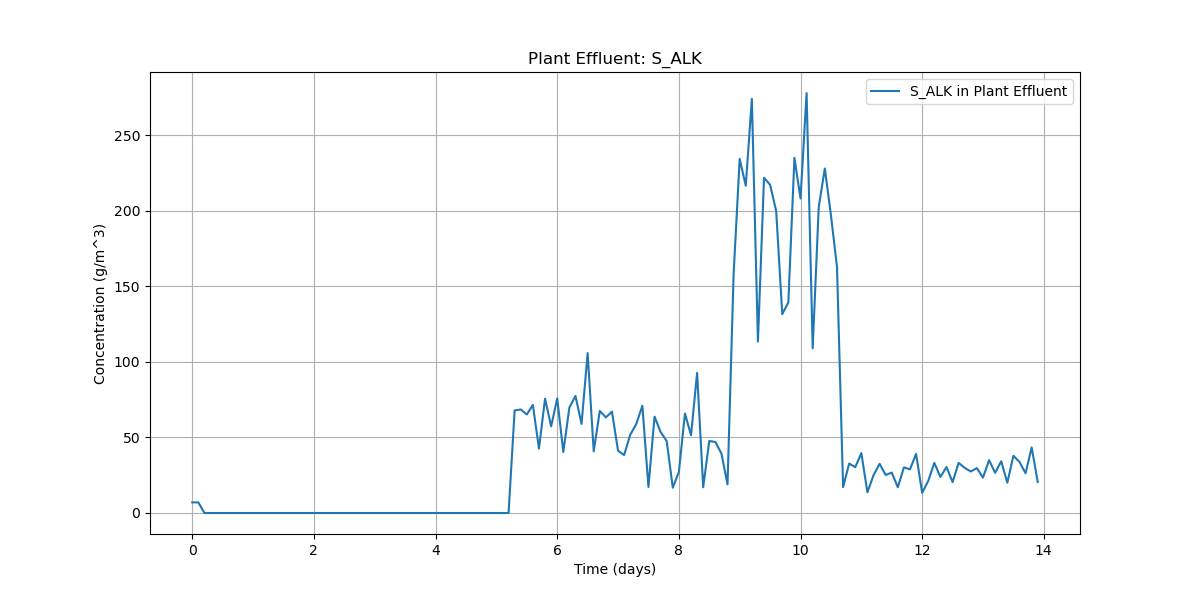
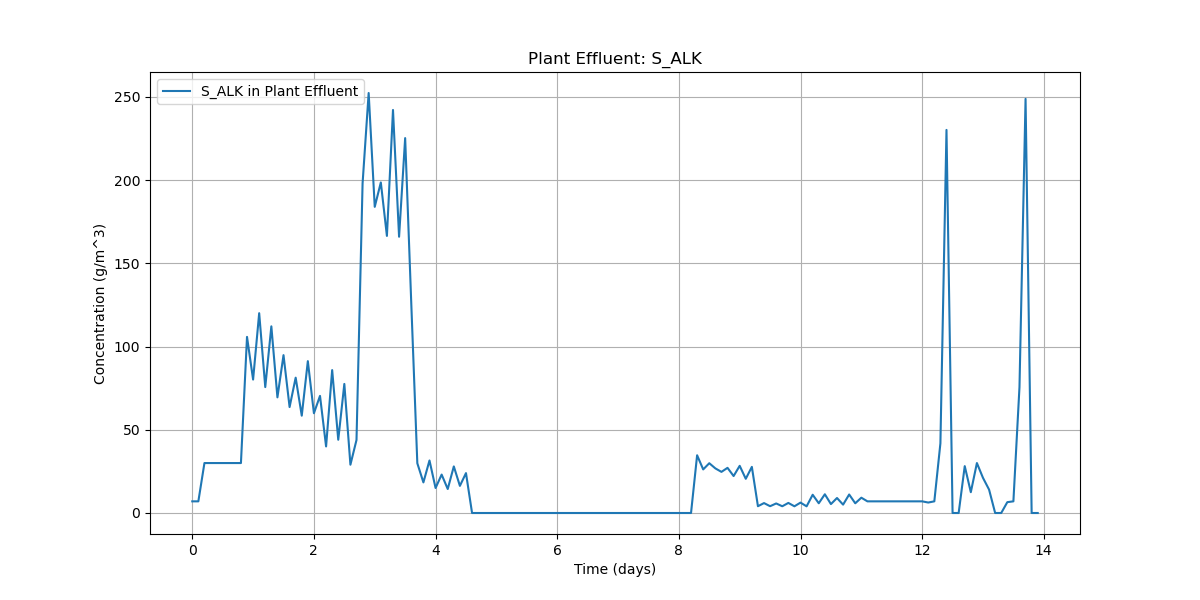
BSM1: solubles solution in clarifier

diff --git a/bsm1_simulation.py b/bsm1_simulation.py
@@ -2,11 +2,12 @@
 
 import numpy as np
 from ASM1_Processes import calculate_process_rates
-from clarifier_model import takacs_clarifier_model  # clarifier ODE (10 layers)
+from clarifier_model import takacs_clarifier_model, takacs_clarifier_soluble_odes  
 
 # indices: [2..6] are particulate COD; 11 is X_ND (particulate N)
 particulate_cod_idx  = [2, 3, 4, 5, 6] # X_I, X_S, X_H, X_A, X_P
 all_particulate_idx  = [2, 3, 4, 5, 6, 11] # add X_ND
+soluble_idx = [0, 1, 7, 8, 9, 10, 12]  # S_I, S_S, S_O, S_NO, S_NH, S_ND, S_ALK
 
 def map_particulates_by_tss(x_src_13, X_tss_target, MLSS_in_clarifier):
     """
@@ -22,13 +23,19 @@ def map_particulates_by_tss(x_src_13, X_tss_target, MLSS_in_clarifier):
 def bsm1_plant_model(y, t, influent_data, stoich_params, Kin_params, clarifier_params, settling_params):
     """
     BSM1 plant dynamics (5 reactors + 10-layer clarifier).
-    y has 75 states: 5*13 (reactors) + 10 (clarifier layers, MLSS).
+    y has 145 states: 5*13 (reactors) + 10 (clarifier MLSS) + 10*7 (clarifier solubles).
     """
 
     # --- 1) Unpack state vector ---
     y_reactors   = y[0:65]
     X_reactors   = y_reactors.reshape(5, 13)     # 5 tanks x 13 ASM1 states
     y_clarifier  = y[65:75]                      # 10-layer MLSS profile (bottom->top or your chosen convention)
+
+    # 10 layers × 7 solubles, flat after the 10 MLSS states
+    N_layers     = clarifier_params['N_layers']  # 10
+    n_sol        = len(soluble_idx)              # 7
+    y_solubles   = y[75:75 + N_layers * n_sol]   # flat soluble layers
+    Z_layers     = y_solubles.reshape(N_layers, n_sol)  # (10,7), top->bottom
 
     # --- 2) Stoichiometry (unchanged) ---
     Y_A = stoich_params['Y_A']
@@ -79,8 +86,17 @@ def bsm1_plant_model(y, t, influent_data, stoich_params, Kin_params, clarifier_p
         settling_params
     )
 
+    # --- 5b) Run soluble-layer advection ODEs ---
+    Z_in_feed = X_reactors[4, soluble_idx]  # Tank 5 solubles at the settler influent
+    dZdt_flat, Zu_vec, Ze_vec = takacs_clarifier_soluble_odes(
+        Z_layers, Z_in_feed, Q_to_clarifier, clarifier_params
+    )
+
     # --- 6) Build RAS composition by MLSS ratio (particulates scaled, solubles copied) ---
     RAS_concs_full = map_particulates_by_tss(X_reactors[4, :], X_u_total, MLSS_in_clarifier)
+
+    # underflow solubles = bottom-layer solubles (Zu)
+    RAS_concs_full[soluble_idx] = Zu_vec
 
     # --- 7) Reactor mass balances ---
     dydt_reactors = np.zeros_like(X_reactors)
@@ -114,6 +130,6 @@ def bsm1_plant_model(y, t, influent_data, stoich_params, Kin_params, clarifier_p
     # print("dydt_reactors.flatten() shape:", dydt_reactors.flatten().shape)
     # print("clar_dxdt shape:", clar_dxdt.shape)
     # --- 8) Pack derivatives ---
-    final_derivatives = np.concatenate([dydt_reactors.flatten(), clar_dxdt])
+    final_derivatives = np.concatenate([dydt_reactors.flatten(), clar_dxdt, dZdt_flat])
     # print("final_derivatives shape:", final_derivatives.shape)
     return final_derivatives

diff --git a/run_simulation.py b/run_simulation.py
@@ -8,7 +8,7 @@ import matplotlib.pyplot as plt
 import os
 os.makedirs('results', exist_ok=True)
 
-from bsm1_simulation import bsm1_plant_model, map_particulates_by_tss, particulate_cod_idx
+from bsm1_simulation import bsm1_plant_model, map_particulates_by_tss, particulate_cod_idx, soluble_idx
 from ASM1_Processes import calculate_process_rates
 
 def get_bsm1_params():
@@ -139,6 +139,11 @@ def stream_compositions_from_state(y):
     X5          = X_reactors[4, :]
     y_clarifier = y[65:75]
 
+    # soluble layers (10 x 7) follow immediately after MLSS
+    N_layers = 10
+    n_sol    = len(soluble_idx)
+    Z_layers = y[75:75 + N_layers * n_sol].reshape(N_layers, n_sol)
+
     # BSM1 feed TSS used for scaling
     X_tss_feed = tss_from_cod(X5)
 
@@ -146,10 +151,17 @@ def stream_compositions_from_state(y):
     Xe = float(y_clarifier[0])    # top layer = effluent TSS
     Xu = float(y_clarifier[-1])   # bottom layer = underflow TSS
 
+    # effluent & underflow solubles from layers
+    Ze_vec = Z_layers[0, :]       # top layer (effluent)
+    Zu_vec = Z_layers[-1, :]      # bottom layer (underflow)
+
     eff_13 = map_particulates_by_tss(X5, Xe, X_tss_feed)  # solubles copied
     ras_13 = map_particulates_by_tss(X5, Xu, X_tss_feed)  # solubles copied
-    return eff_13, ras_13, Xe, Xu
 
+    # overwrite solubles with the layer values
+    eff_13[soluble_idx] = Ze_vec
+    ras_13[soluble_idx] = Zu_vec
+    return eff_13, ras_13, Xe, Xu
 
 # --- Example of how to use it ---
 if __name__ == '__main__':
@@ -177,9 +189,18 @@ if __name__ == '__main__':
     # Initial conditions for the 10 clarifier layers (a reasonable gradient)
     initial_state_clarifier = np.linspace(start=50, stop=8000, num=10) # From clear top to thick bottom
 
+    # initial conditions for the 10×7 soluble layers.
+    # A simple, BSM1-compliant choice is to set all layers equal to Tank 5 solubles.
+    init_Z5 = initial_state_reactors[4, soluble_idx]          # Tank 5 solubles
+    initial_state_clarifier_solubles = np.tile(init_Z5, (10, 1))  # (10,7), top->bottom
+
     # Combine into a single flat vector for the ODE solver
-    y0 = np.concatenate([initial_state_reactors.flatten(), initial_state_clarifier])
-    print("Step 2: Initial conditions defined for 75 states.")
+    y0 = np.concatenate([
+        initial_state_reactors.flatten(),
+        initial_state_clarifier,
+        initial_state_clarifier_solubles.flatten()
+    ])
+    print("Step 2: Initial conditions defined for 145 states.")
 
     # --- 3. Define Simulation Time ---
     # Simulate for 14 days, with output every 0.1 days.

diff --git a/clarifier_model.py b/clarifier_model.py
@@ -150,3 +150,62 @@ def takacs_clarifier_model(X_layers, X_in_total, Q_in, clarifier_params, settlin
     X_underflow_total = X[-1]   # bottom layer
     X_effluent_total  = X[0]    # top layer
     return dxdt, X_underflow_total, X_effluent_total
+
+def takacs_clarifier_soluble_odes(Z_layers, Z_in, Q_in, clarifier_params):
+    """
+    Soluble advection in the 10-layer clarifier per BSM1 (no reactions).
+    Layer ordering follows your convention: index 0 = TOP, index 9 = BOTTOM.
+
+    Args:
+        Z_layers : (N_layers, n_sol) or flat (N_layers*n_sol,)
+                   Soluble concentrations per layer [g/m^3].
+        Z_in     : (n_sol,) solubles in the clarifier feed (from Tank 5) [g/m^3].
+        Q_in     : Clarifier feed flow Q_f [m^3/d] (= Q_e + Q_u).
+        clarifier_params : dict with keys 'A','N_layers','h','Q_RAS','Q_w','feed_layer'.
+
+    Returns:
+        dZdt_flat : (N_layers*n_sol,) time derivatives (flattened)
+        Z_underflow : (n_sol,) solubles in underflow = bottom layer
+        Z_effluent  : (n_sol,) solubles in effluent  = top layer
+    """
+    A          = clarifier_params['A']
+    N_layers   = clarifier_params['N_layers']
+    h          = clarifier_params['h']
+    Q_RAS      = clarifier_params['Q_RAS']
+    Q_w        = clarifier_params['Q_w']
+    feed_layer = clarifier_params['feed_layer']  # 0-based; top=0
+
+    Q_u  = Q_RAS + Q_w          # underflow
+    Q_e  = Q_in - Q_u           # effluent
+    v_up = Q_e / A              # upward superficial velocity [m/d]
+    v_dn = Q_u / A              # downward superficial velocity [m/d]
+
+    Z = np.asarray(Z_layers, dtype=float)
+    if Z.ndim == 1:
+        if Z.size % N_layers != 0:
+            raise ValueError("Z_layers length must be multiple of N_layers")
+        n_sol = Z.size // N_layers
+        Z = Z.reshape(N_layers, n_sol)
+    else:
+        n_sol = Z.shape[1]
+
+    Zin = np.asarray(Z_in, dtype=float).reshape(n_sol,)
+
+    dZ = np.zeros_like(Z)
+
+    # Above feed: upflow from i+1 to i (top index = 0)
+    for i in range(feed_layer):
+        dZ[i, :] = (v_up / h) * (Z[i + 1, :] - Z[i, :])
+
+    # Feed layer: Q_f/A/h * (Z_in - Z_feed)
+    dZ[feed_layer, :] = (Q_in / (A * h)) * (Zin - Z[feed_layer, :])
+
+    # Below feed: downflow from i-1 to i
+    for i in range(feed_layer + 1, N_layers):
+        dZ[i, :] = (v_dn / h) * (Z[i - 1, :] - Z[i, :])
+
+    # Output top/bottom solubles per BSM1
+    Z_effluent  = Z[0, :]       # Ze = layer 0 (top)
+    Z_underflow = Z[-1, :]      # Zu = layer 9 (bottom)
+
+    return dZ.reshape(-1), Z_underflow, Z_effluent
